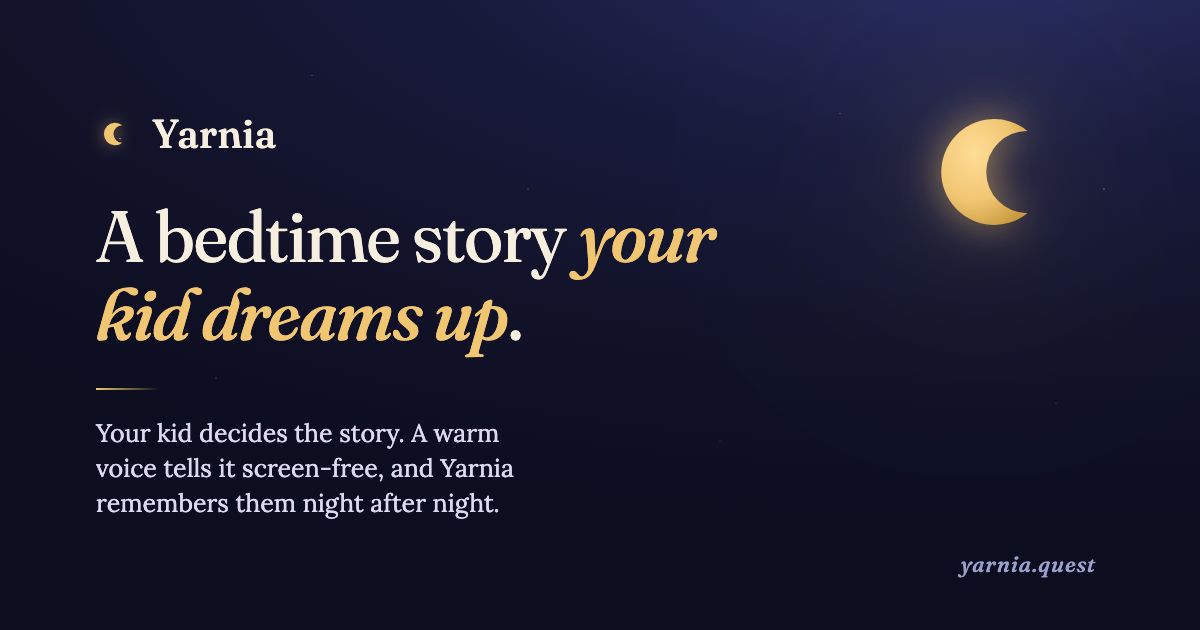
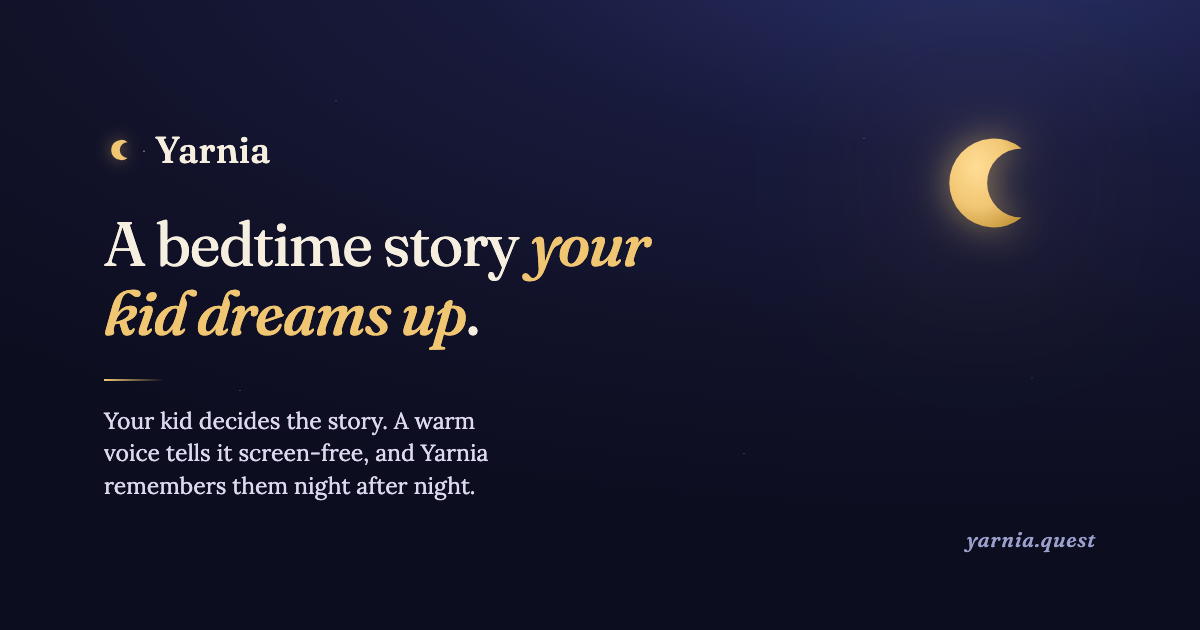
design(og): add generous safe margins to the social card
Pull content and moon in from the edges so platforms can crop without
clipping, and ease the type sizes for more breathing room.

diff --git a/marketing/public/og.html b/marketing/public/og.html
@@ -1,5 +1,5 @@
 <!doctype html>
-<!-- Source for og.png (1200x630). Rendered to PNG with headless Chrome; reuses the live night-sky theme. -->
+<!-- Source for og.png (1200x630). Rendered to PNG with headless Chrome; reuses the live night-sky theme. Generous safe margins so nothing gets cropped by social platforms. -->
 <html lang="en">
 <head>
 <meta charset="utf-8" />
@@ -11,34 +11,32 @@
   html,body{width:1200px; height:630px; overflow:hidden}
   body{
     position:relative; color:#f6efe0; font-family:"Lora",Georgia,serif;
-    background:
-      radial-gradient(120% 95% at 82% -12%, #2a3168 0%, #181a3c 38%, #12132a 68%, #0c0d1f 100%);
+    background:radial-gradient(120% 95% at 82% -12%, #2a3168 0%, #181a3c 38%, #12132a 68%, #0c0d1f 100%);
   }
-  /* starfield */
   .stars{position:absolute; inset:0;
     background-image:
-      radial-gradient(2px 2px at 10% 22%, rgba(246,239,224,.8), transparent 60%),
-      radial-gradient(1.6px 1.6px at 26% 12%, rgba(127,168,212,.7), transparent 60%),
-      radial-gradient(1.4px 1.4px at 18% 60%, rgba(246,239,224,.6), transparent 60%),
-      radial-gradient(1.6px 1.6px at 44% 30%, rgba(241,198,115,.5), transparent 60%),
-      radial-gradient(1.3px 1.3px at 60% 70%, rgba(246,239,224,.5), transparent 60%),
-      radial-gradient(1.5px 1.5px at 88% 64%, rgba(127,168,212,.55), transparent 60%),
-      radial-gradient(1.3px 1.3px at 70% 18%, rgba(246,239,224,.55), transparent 60%),
-      radial-gradient(2px 2px at 92% 30%, rgba(246,239,224,.45), transparent 60%);
+      radial-gradient(2px 2px at 12% 24%, rgba(246,239,224,.7), transparent 60%),
+      radial-gradient(1.6px 1.6px at 28% 16%, rgba(127,168,212,.6), transparent 60%),
+      radial-gradient(1.4px 1.4px at 20% 62%, rgba(246,239,224,.5), transparent 60%),
+      radial-gradient(1.5px 1.5px at 62% 72%, rgba(246,239,224,.45), transparent 60%),
+      radial-gradient(1.5px 1.5px at 86% 60%, rgba(127,168,212,.5), transparent 60%),
+      radial-gradient(1.3px 1.3px at 72% 22%, rgba(246,239,224,.5), transparent 60%);
     background-repeat:no-repeat;
   }
-  .moon{position:absolute; top:78px; right:108px; width:188px; height:188px;
-    filter:drop-shadow(0 0 20px rgba(241,198,115,.6)) drop-shadow(0 0 80px rgba(241,198,115,.4)) drop-shadow(0 0 170px rgba(127,168,212,.28));
+  /* generous, uniform safe margin so platforms can crop without clipping content */
+  .frame{position:absolute; inset:0; padding:92px 104px}
+  .moon{position:absolute; top:104px; right:124px; width:158px; height:158px;
+    filter:drop-shadow(0 0 18px rgba(241,198,115,.55)) drop-shadow(0 0 72px rgba(241,198,115,.36)) drop-shadow(0 0 150px rgba(127,168,212,.24));
   }
-  .content{position:absolute; left:96px; top:0; bottom:0; width:760px; display:flex; flex-direction:column; justify-content:center}
-  .brandrow{display:flex; align-items:center; gap:16px; margin-bottom:40px}
-  .brandrow .glyph{width:40px; height:40px; filter:drop-shadow(0 0 8px rgba(241,198,115,.5))}
-  .brandrow .name{font-family:"Fraunces",Georgia,serif; font-weight:500; font-size:40px; letter-spacing:.01em}
-  h1{font-family:"Fraunces",Georgia,serif; font-weight:400; font-size:72px; line-height:1.08; letter-spacing:-.015em; max-width:16ch}
+  .content{position:absolute; left:104px; right:300px; top:0; bottom:0; display:flex; flex-direction:column; justify-content:center}
+  .brandrow{display:flex; align-items:center; gap:15px; margin-bottom:38px}
+  .brandrow .glyph{width:36px; height:36px; filter:drop-shadow(0 0 8px rgba(241,198,115,.5))}
+  .brandrow .name{font-family:"Fraunces",Georgia,serif; font-weight:500; font-size:37px; letter-spacing:.01em}
+  h1{font-family:"Fraunces",Georgia,serif; font-weight:400; font-size:62px; line-height:1.1; letter-spacing:-.015em; max-width:15ch}
   h1 em{font-style:italic; color:#f1c673; font-weight:500}
-  .rule{width:64px; height:2px; background:linear-gradient(90deg,#f1c673,rgba(241,198,115,0)); margin:34px 0 26px}
-  .tag{font-size:25px; color:#ddd8ef; max-width:30ch; line-height:1.4}
-  .url{position:absolute; right:104px; bottom:52px; font-family:"Fraunces",Georgia,serif; font-style:italic; font-size:22px; letter-spacing:.04em; color:#9aa0cb}
+  .rule{width:60px; height:2px; background:linear-gradient(90deg,#f1c673,rgba(241,198,115,0)); margin:32px 0 24px}
+  .tag{font-size:23px; color:#ddd8ef; max-width:30ch; line-height:1.42}
+  .url{position:absolute; right:104px; bottom:78px; font-family:"Fraunces",Georgia,serif; font-style:italic; font-size:21px; letter-spacing:.04em; color:#9aa0cb}
 </style>
 </head>
 <body>